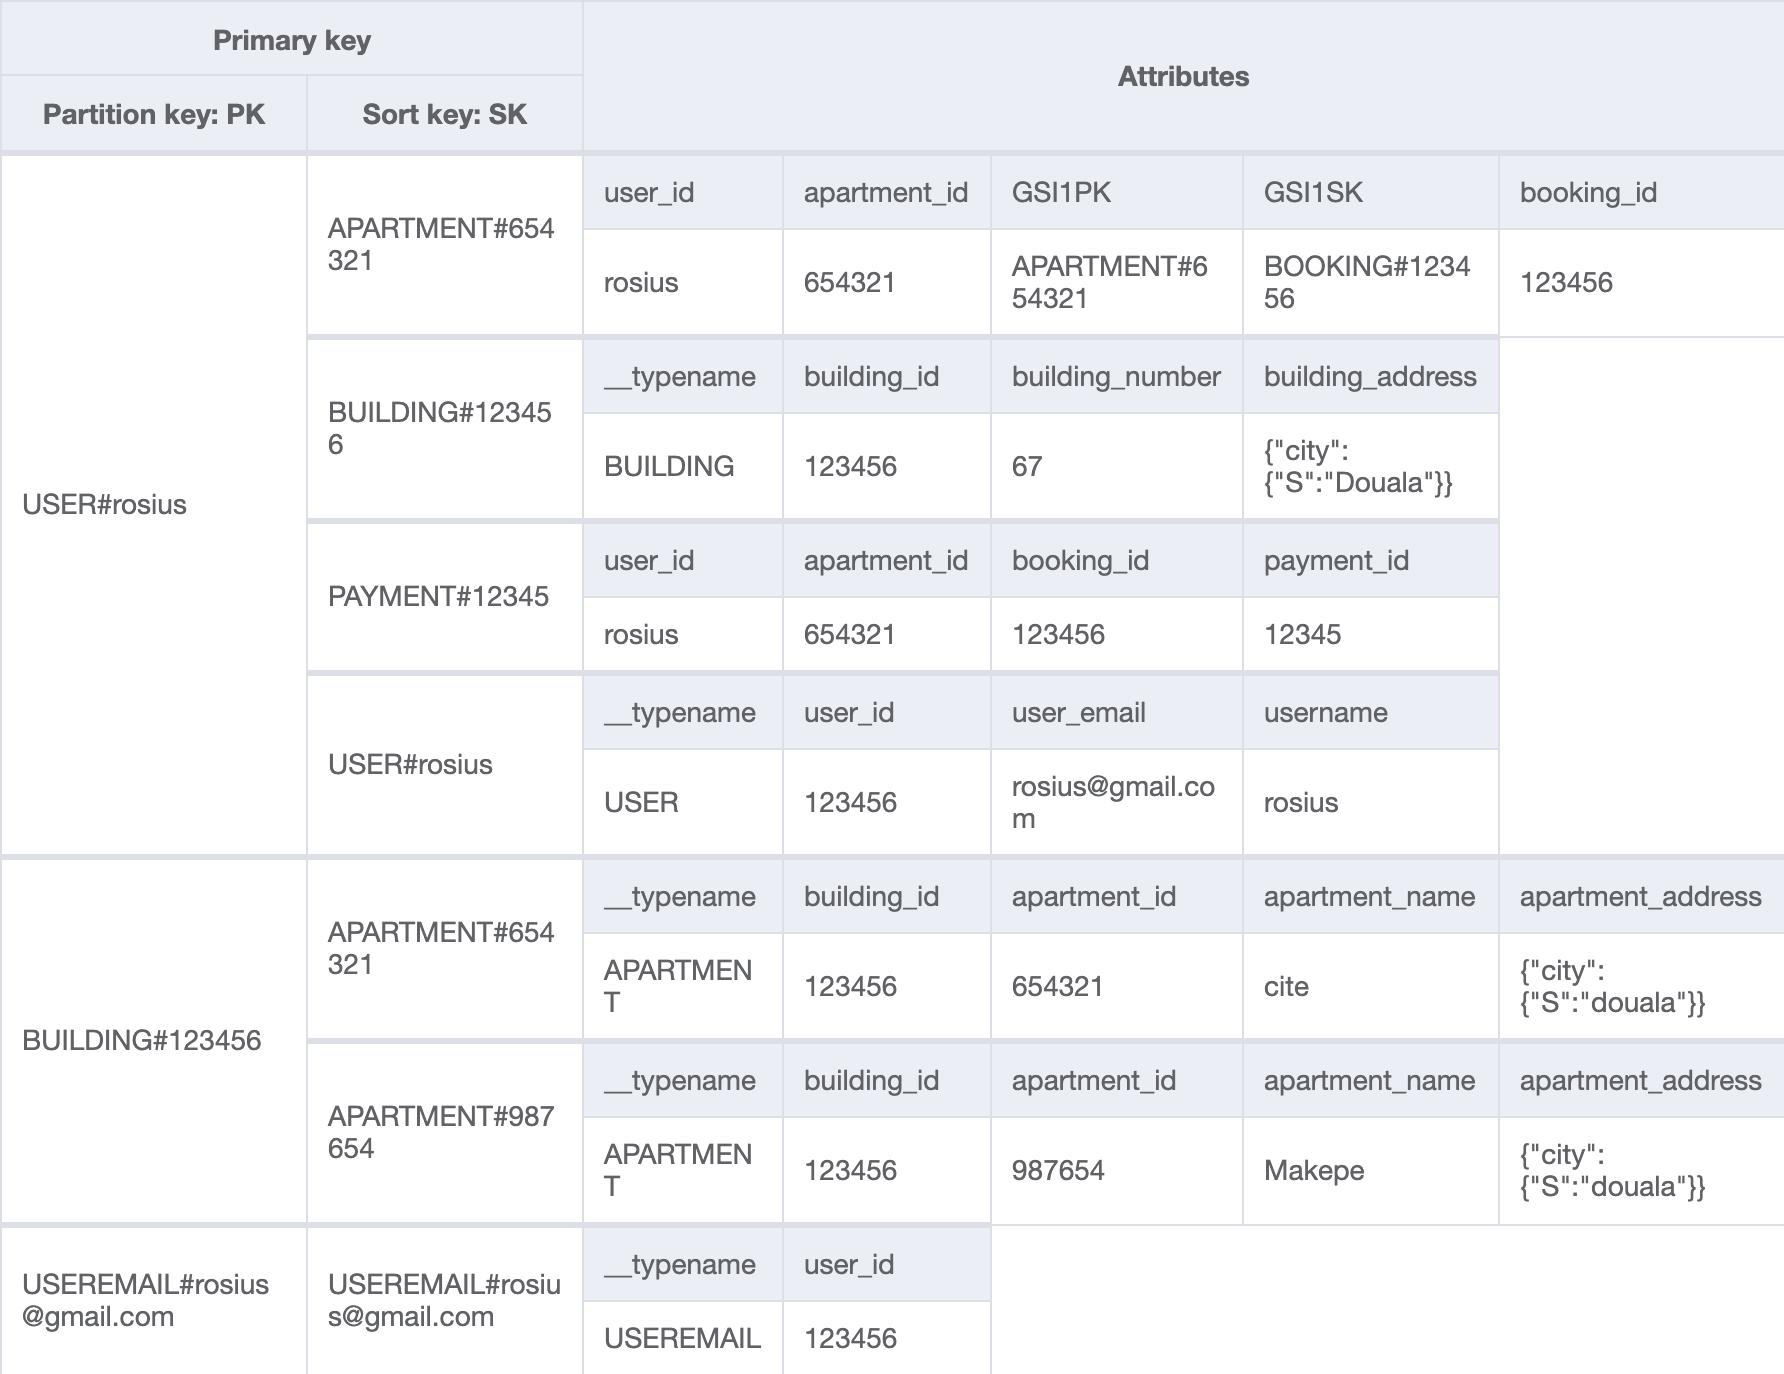
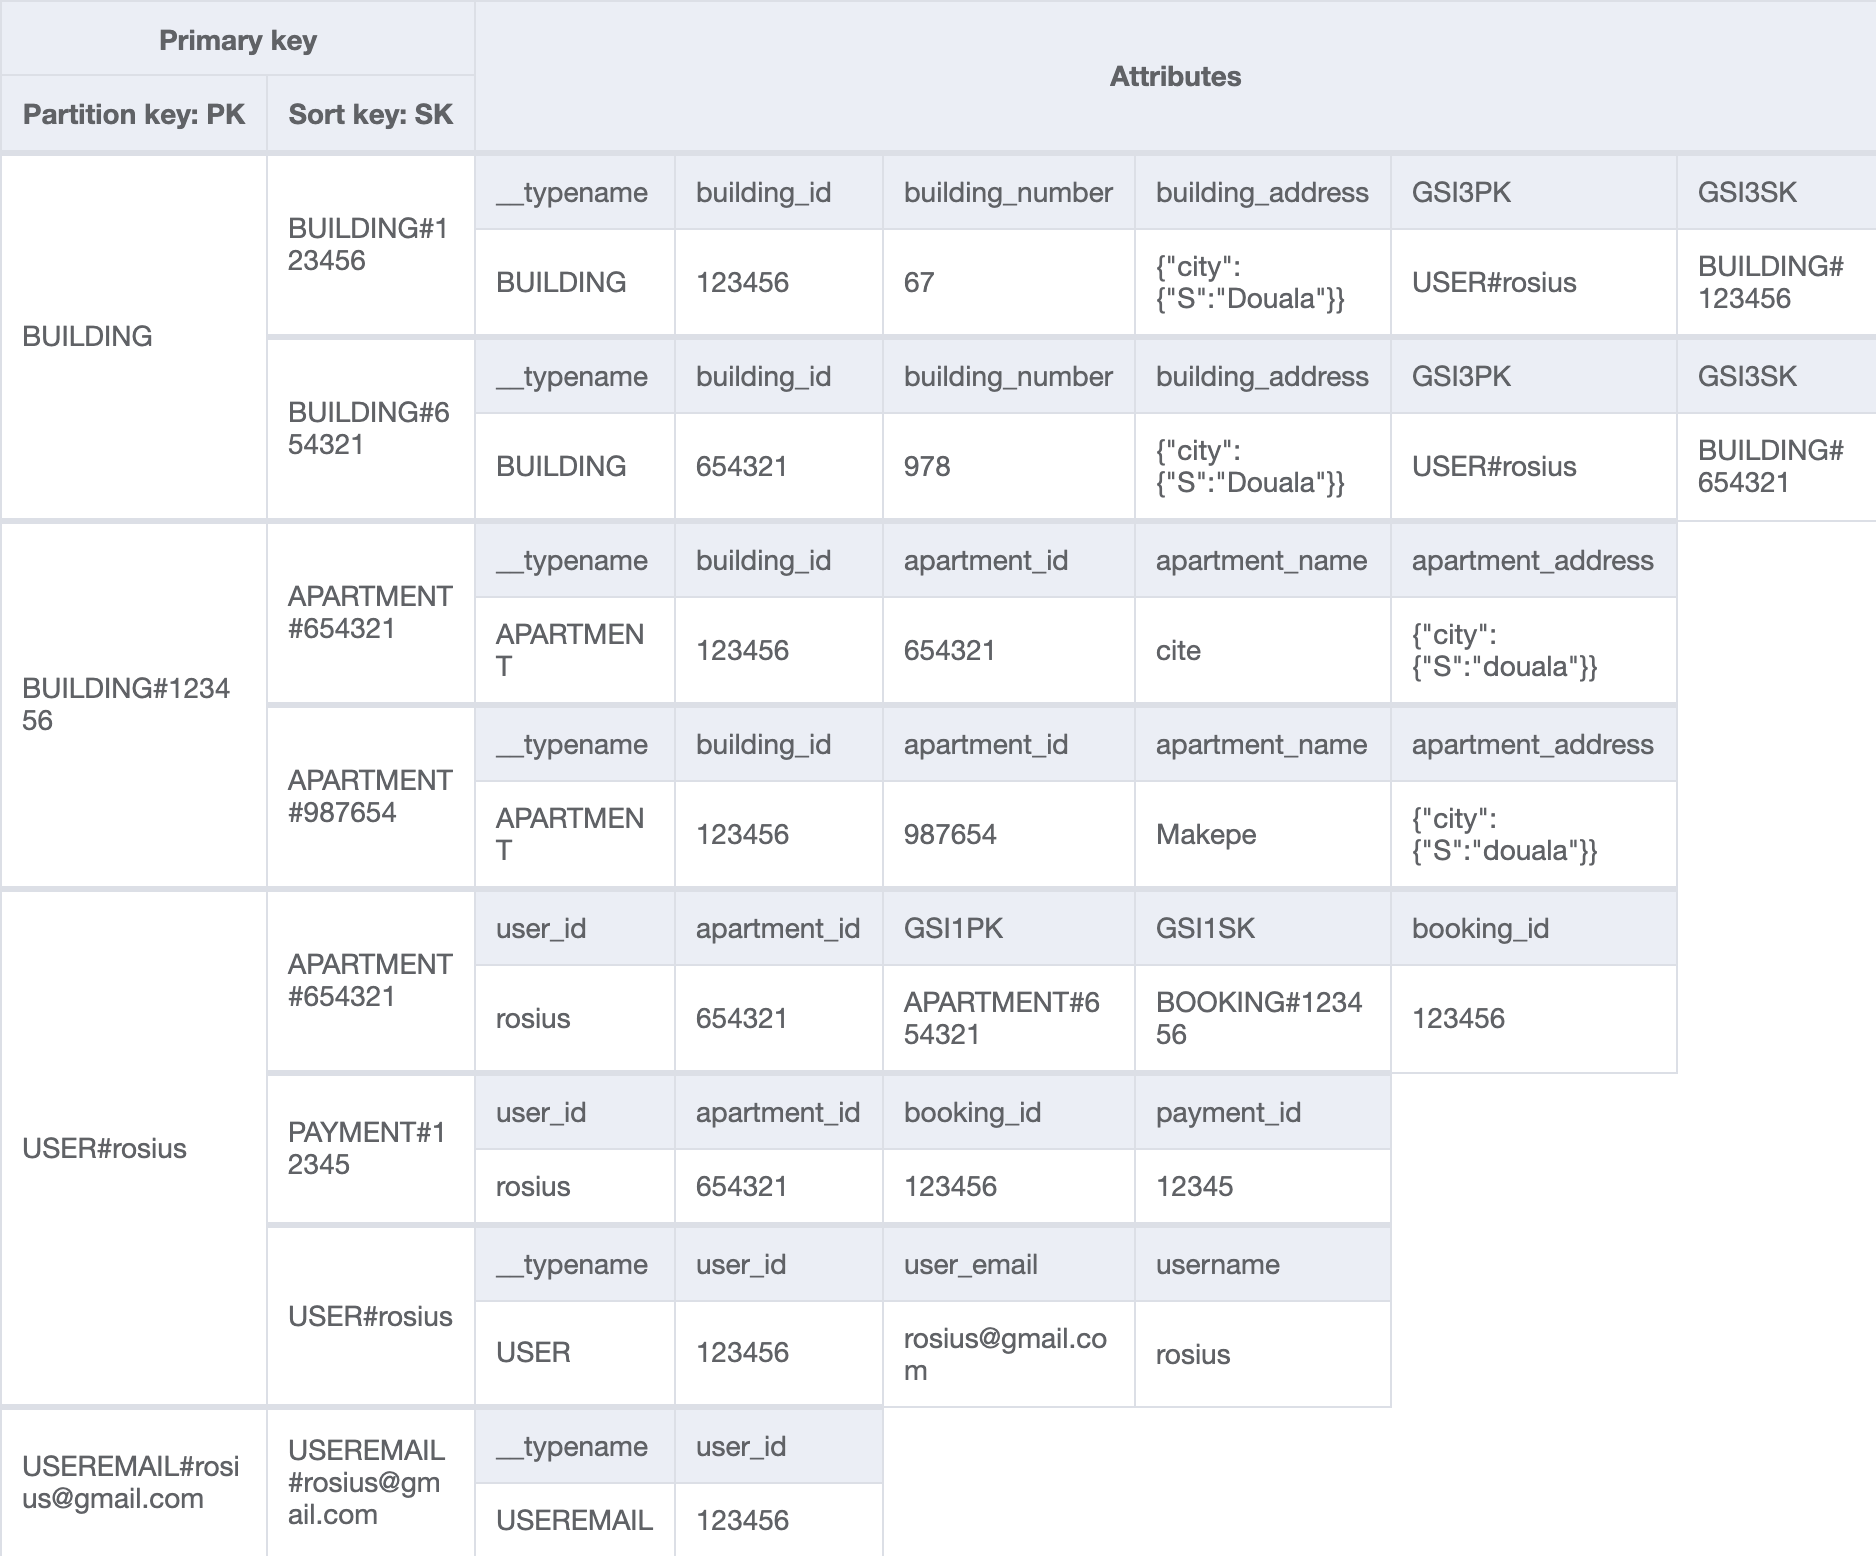
more updates

diff --git a/README.md b/README.md
@@ -40,18 +40,130 @@ Users and Payments share a one to many relationship
 
 ![alt text](https://raw.githubusercontent.com/trey-rosius/apartment_complex_management_system/master/assets/entity_relationship_apartment.jpeg)
 
+# Access Patterns
+
+Administrator
+
+- Create/update/delete Administrator accounts.
+
+```jsx
+PK:USER#USERNAME
+SK:USER#EMAIL
+```
+
+- Create/Update/Read/List/Delete Buildings
+
+```jsx
+PK:USER#USERID
+SK:BUILDING#BUILDINGID
+```
+
+- Create/Update/Delete Apartments
+
+```jsx
+PK:BUILDING#BUILDINGID
+SK:APARTMENT#APARTMENTID
+```
+
+- list all buildings
+
+```jsx
+starts_with(BUILDING#)
+PK:BUILDING
+SK: BUILDING#
+```
+
+- list apartments per building
+
+```jsx
+starts_with(APARTMENT#)
+PK:BUILDING#BUILDINGID
+SK:APARTMENT#
+```
+
+- list all bookings per apartment
+
+```jsx
+begins_with(BOOKINGS#)
+PK:APARTMENTS#APARTMENTID
+SK:BOOKINGS#
+```
+
+- assign a caretaker to a particular building
+
+```jsx
+BUILDING#BUILDINGID
+USER#USERNAME
+```
+
+Tenants
+
+- Create/update/read/delete account
+
+```jsx
+PK:USER#USERNAME
+SK:USER#EMAIL
+
+```
+
+- List all Buildings in their Area
+
+```jsx
+use `longitude` and `latitude`
+PK:BUILDING
+SK:BUILDING#BUILDINGID
+```
+
+- List available apartments for each building
+
+```jsx
+conditional expressiong `where status==available`
+PK:BUILDING#BUILDINGID
+SK:APARTMENT#
+```
+
+- Book an apartment
+-
+
+```jsx
+
+BOOKING_STATUS = PENDING
+
+PK:USER#USERNAME
+SK:APARTMENT#APARTMENTID
+GSI
+GSI1PK:BUILDING#BUILDINGID
+GSI1SK:APARTMENT#APARTMENTID#STATUS
+```
+
+- View all apartments booked by you
+
+```jsx
+starts_with(APARTMENT#)
+condition booked_by == userId
+PK:BUILDING#BUILDINGID
+SK:APARTMENT#
+```
+
+- Pay for apartment once booking status == ‘ACCEPTED’
+
+Caretaker
+
+- View all apartments(Available, unavailable) in Building
+-
+
 ### Single Table Design DATABASE SCHEMA
 
-| Entity                 | PK                  | SK                    | GSI1PK                | GSI1SK            |
-| ---------------------- | ------------------- | --------------------- | --------------------- | ----------------- |
-| Building               | USER#USERID         | BUILDING#BUILDINGID   |                       |                   |
-| Apartment              | BUILDING#BUILDINGID | APARTMENT#APARTMENTID |                       |                   |
-| Booking                | USER#USERID         | APARTMENT#APARTMENTID | APARTMENT#APARTMENTID | BOOKING#BOOKINGID |
-| Payment                | USER#ID             | PAYMENT#PAYMENTID     | APARTMENT#APARTMENTID | PAYMENT#          |
-| User                   | USER#USERID         | USER#USEREMAIL        |                       |                   |
-| Messages/Notifications | USER#USERID         | MESSAGE#MESSAGEID     |                       |                   |
+| Entity                 | PK                  | SK                    | GSI1PK                | GSI1SK              |
+| ---------------------- | ------------------- | --------------------- | --------------------- | ------------------- |
+| Building               | BUILDING            | BUILDING#BUILDINGID   | USER#USERID           | BUILDING#BUILDINGID |
+| Apartment              | BUILDING#BUILDINGID | APARTMENT#APARTMENTID |                       |                     |
+| Booking                | USER#USERID         | APARTMENT#APARTMENTID | APARTMENT#APARTMENTID | BOOKING#BOOKINGID   |
+| Payment                | USER#USERID         | PAYMENT#PAYMENTID     | APARTMENT#APARTMENTID | PAYMENT#PAYMENTID   |
+| User                   | USER#USERID         | USER#USEREMAIL        |                       |                     |
+| Messages/Notifications | USER#USERID         | MESSAGE#MESSAGEID     |                       |                     |
 
-NOSQL WORKBENCH
+## NOSQL WORKBENCH
 
 ![alt text](https://raw.githubusercontent.com/trey-rosius/apartment_complex_management_system/master/assets/acms-table.png)
 
@@ -62,3 +174,7 @@ NOSQL WORKBENCH
 ### Get All Bookings Per Apartment
 
 ![alt text](https://raw.githubusercontent.com/trey-rosius/apartment_complex_management_system/master/assets/GSI_acms-table_getAllBookingsPerApartment.png)
+
+### Get All Buildings Per User
+
+![alt text](https://raw.githubusercontent.com/trey-rosius/apartment_complex_management_system/master/assets/GSI_acms-table_getAllBuildingsPerUser.png)
